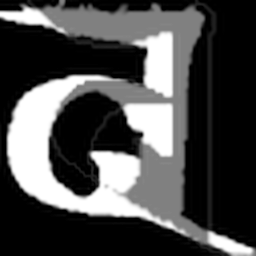
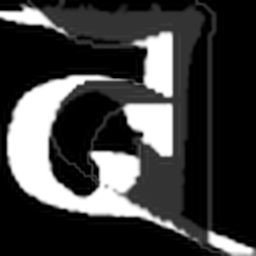
config changes

Changed region(s): [[0.1562, 0.0, 0.8438, 0.9688]]

diff --git a/api/views.py b/api/views.py
@@ -251,7 +251,7 @@ class SimilarityView(APIView):
 		user_with_alpha = Image.new('RGBA', size, (255, 255, 255, 0))
 		user_with_alpha.paste(user_rgba, (0, 0))
 		user_array = np.array(user_with_alpha)
-		user_array[:, :, 3] = (255 - user_array[:, :, 0]) * 0.5  # 80% opacity on strokes
+		user_array[:, :, 3] = (255 - user_array[:, :, 0]) * 0.8  # 80% opacity on strokes
 		user_with_alpha = Image.fromarray(user_array.astype('uint8'), 'RGBA')
 		blended = Image.alpha_composite(blended, user_with_alpha)
 		blended_output = blended.convert('RGB')

diff --git a/api/ml_models/config.py b/api/ml_models/config.py
@@ -18,5 +18,5 @@ NUM_CHANNELS = 1  # Grayscale
 DEVICE = 'cpu'  # Change to 'cuda' if you have GPU
 
 # Normalization (default values for Ranjana dataset)
-MEAN = 0.5
-STD = 0.5
+MEAN = 0.2677
+STD = 0.4220
